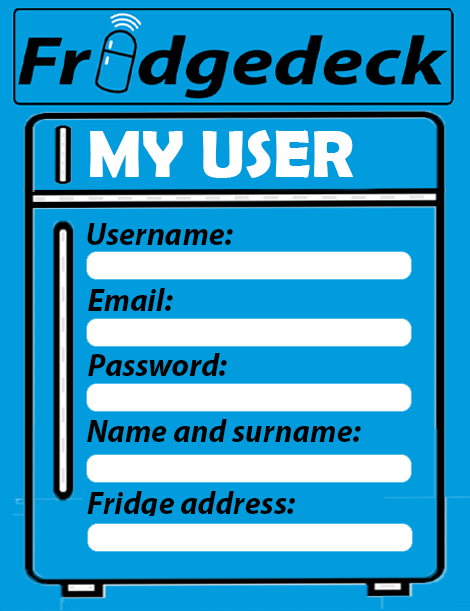
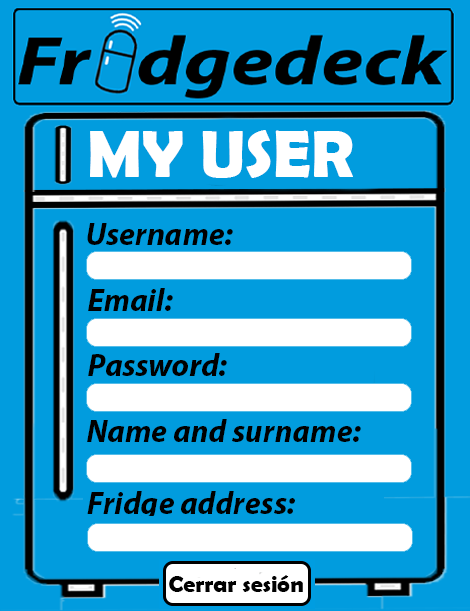
ventana información usuario

Changed region(s): [[0.3277, 0.9018, 0.6851, 0.9951]]

diff --git a/src/control/controladorVentanaInformacionUsuario.java b/src/control/controladorVentanaInformacionUsuario.java
@@ -1,0 +1,49 @@
+import java.net.URL;
+import java.util.ResourceBundle;
+import javafx.event.ActionEvent;
+import javafx.fxml.FXML;
+import javafx.scene.control.Button;
+import javafx.scene.control.TextField;
+
+public class PleaseProvideControllerClassName {
+
+    @FXML
+    private ResourceBundle resources;
+
+    @FXML
+    private URL location;
+
+    @FXML
+    private TextField tfUsernameLogin;
+
+    @FXML
+    private Button btnLogin;
+
+    @FXML
+    private TextField tfUsernameLogin1;
+
+    @FXML
+    private TextField tfUsernameLogin11;
+
+    @FXML
+    private TextField tfUsernameLogin111;
+
+    @FXML
+    private TextField tfUsernameLogin1111;
+
+    @FXML
+    void entrar(ActionEvent event) {
+
+    }
+
+    @FXML
+    void initialize() {
+        assert tfUsernameLogin != null : "fx:id=\"tfUsernameLogin\" was not injected: check your FXML file 'ventana_Informacion_usuario.fxml'.";
+        assert btnLogin != null : "fx:id=\"btnLogin\" was not injected: check your FXML file 'ventana_Informacion_usuario.fxml'.";
+        assert tfUsernameLogin1 != null : "fx:id=\"tfUsernameLogin1\" was not injected: check your FXML file 'ventana_Informacion_usuario.fxml'.";
+        assert tfUsernameLogin11 != null : "fx:id=\"tfUsernameLogin11\" was not injected: check your FXML file 'ventana_Informacion_usuario.fxml'.";
+        assert tfUsernameLogin111 != null : "fx:id=\"tfUsernameLogin111\" was not injected: check your FXML file 'ventana_Informacion_usuario.fxml'.";
+        assert tfUsernameLogin1111 != null : "fx:id=\"tfUsernameLogin1111\" was not injected: check your FXML file 'ventana_Informacion_usuario.fxml'.";
+
+    }
+}
